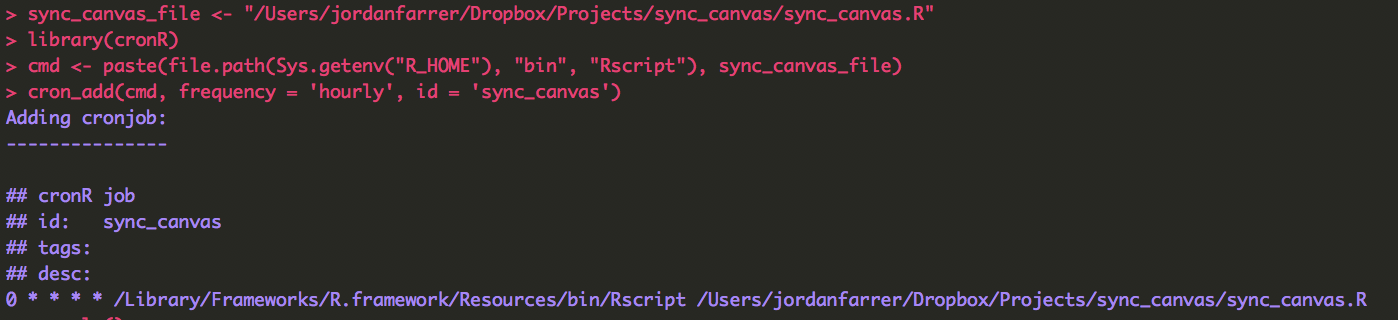
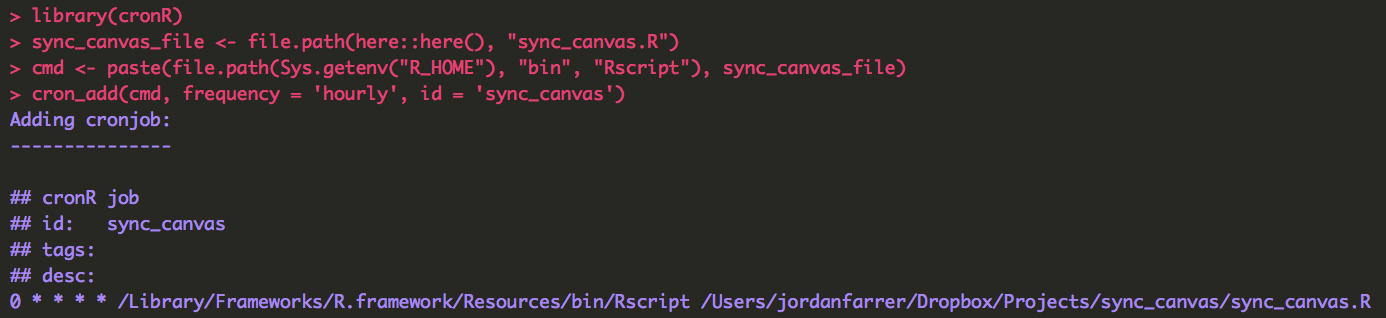
added here:here() to process

Changed region(s): [[0.0, 0.0, 0.6825, 0.4811], [0.0, 0.5943, 0.9928, 0.9906], [0.031, 0.9906, 0.0931, 1.0]]

diff --git a/post/sync-canvas-files/index.html b/post/sync-canvas-files/index.html
@@ -332,19 +332,15 @@ file.edit(user_renviron)</code></pre>
 </div>
 <div id="set-local-directory" class="section level2">
 <h2><span class="header-section-number">3.4</span> Set Local Directory</h2>
-<p>At the top of the <code>sync_canvas.R</code> file there are two directories that you need to change. To find a folder easily in Finder, <strong>right-click</strong> on the folder and press <strong>Option</strong> on the keyboard. This copies the entire path to the clipboard.</p>
+<p>At the top of the <code>sync_canvas.R</code> file there is one directory that you need to change. To find a folder easily in Finder, <strong>right-click</strong> on the folder and press <strong>Option</strong> on the keyboard. This copies the entire path to the clipboard.</p>
 <p><img src="../../img/posts/sync_canvas/pathname.gif" width="50%" /></p>
-<p>The two paths are:</p>
-<ol style="list-style-type: decimal">
-<li><strong>sync_canvas_dir</strong>: Location of the sync_canvas folder you downloaded. This is the location on your computer where the sync_canvas.R is located.</li>
-<li><strong>file_dir</strong>: Location where you want to have the Canvas course files saved. For me, this is a folder in my Dropbox directory.</li>
-</ol>
-<p><img src="../../img/posts/sync_canvas/two_pathes.png" width="50%" /></p>
+<p>The one path is <strong>file_dir</strong> - location where you want to have the Canvas course files saved. For me, this is a folder in my Dropbox directory.</p>
+<p><img src="../../img/posts/sync_canvas/one_path.png" width="50%" /></p>
 </div>
 <div id="initial-file-download" class="section level2">
 <h2><span class="header-section-number">3.5</span> Initial file download</h2>
-<p>You need to ensure you have the tidyverse and jsonlite packages installed. You can run this code check to ensure they are up-to-date.</p>
-<pre class="r"><code>install.packages(c(&#39;tidyverse&#39;, &#39;jsonlite&#39;))</code></pre>
+<p>You need to ensure you have the tidyverse, jsonlite, and here packages installed. You should run this code in the R console check to ensure they are up-to-date.</p>
+<pre class="r"><code>install.packages(c(&#39;tidyverse&#39;, &#39;jsonlite&#39;, &#39;here&#39;))</code></pre>
 <p>We are all set to do an initial download. This will take a while, depending on how many classes you listed in the csv and the quantity/size of files uploaded by instructors. With <code>sync_canvas.R</code> open, click <strong>Source</strong>. It will take a while to run. You should be able to see the files populating in <code>file_dir</code>.</p>
 <p><img src="../../img/posts/sync_canvas/initial_run.png" width="50%" /></p>
 </div>
@@ -358,11 +354,9 @@ file.edit(user_renviron)</code></pre>
 </div>
 <div id="create-cron-job" class="section level3">
 <h3><span class="header-section-number">3.6.2</span> Create cron job</h3>
-<p>Create the <code>sync_canvas_file</code> character variable to be <code>sync_canvas_dir</code> + <code>sync_canvas.R</code>. The path for me is below. Modify and run this in the R console.</p>
-<pre class="r"><code># Modify directory below - should be sync_canvas_dir + sync_canvas.R&quot;
-sync_canvas_file &lt;- &quot;/Users/jordanfarrer/Dropbox/Projects/sync_canvas/sync_canvas.R&quot;</code></pre>
-<p>Then, run the following code chunk.</p>
+<p>Run the following code chunk in the R console.</p>
 <pre class="r"><code>library(cronR)
+sync_canvas_file &lt;- file.path(here::here(), &quot;sync_canvas.R&quot;)
 cmd &lt;- paste(file.path(Sys.getenv(&quot;R_HOME&quot;), &quot;bin&quot;, &quot;Rscript&quot;), sync_canvas_file)
 cron_add(cmd, frequency = &#39;hourly&#39;, id = &#39;sync_canvas&#39;)</code></pre>
 <p><img src="../../img/posts/sync_canvas/cron.png" width="75%" /></p>
@@ -370,7 +364,7 @@ cron_add(cmd, frequency = &#39;hourly&#39;, id = &#39;sync_canvas&#39;)</code></
 </div>
 <div id="logging" class="section level3">
 <h3><span class="header-section-number">3.6.3</span> Logging</h3>
-<p>While cron can help with logging, I wanted a bit more control and handled logging within <code>canvas_sync.R</code>. After each run (on the hour), a log <code>sync_canvas_log.csv</code> will be updated in the <code>sync_canvas_dir</code> folder. The most recent files will appear at the top. Even if no files were downloaded, a row will be added indicating the process ran. I find it easy to use <a href="https://support.apple.com/kb/PH25575">Quick Look</a> (in Finder select <code>sync_canvas_log.csv</code> and hit the spacebar) to easily check on the process and what files have been added and I will never actually open the file. The run times are in UTC.</p>
+<p>While cron can help with logging, I wanted a bit more control and handled logging within <code>canvas_sync.R</code>. After each run (on the hour), a log <code>sync_canvas_log.csv</code> will be updated in the project folder. The most recent files will appear at the top. Even if no files were downloaded, a row will be added indicating the process ran. I find it easy to use <a href="https://support.apple.com/kb/PH25575">Quick Look</a> (in Finder select <code>sync_canvas_log.csv</code> and hit the spacebar) to easily check on the process and what files have been added and I will never actually open the file. The run times are in UTC.</p>
 <p><img src="../../img/posts/sync_canvas/logging.png" width="100%" /></p>
 <p>You are now all setup - close RStudio and stop downloading files from Canvas! I have Canvas email notifications setup when a professor uploads a file. Now I do not need to go and download it!</p>
 </div>
